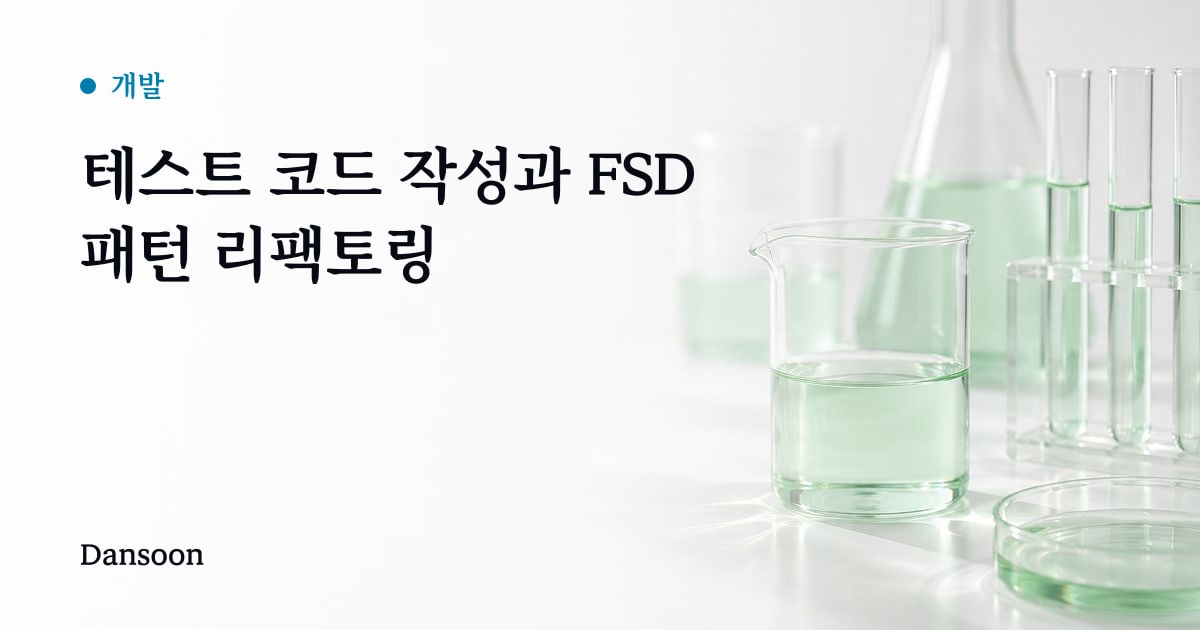
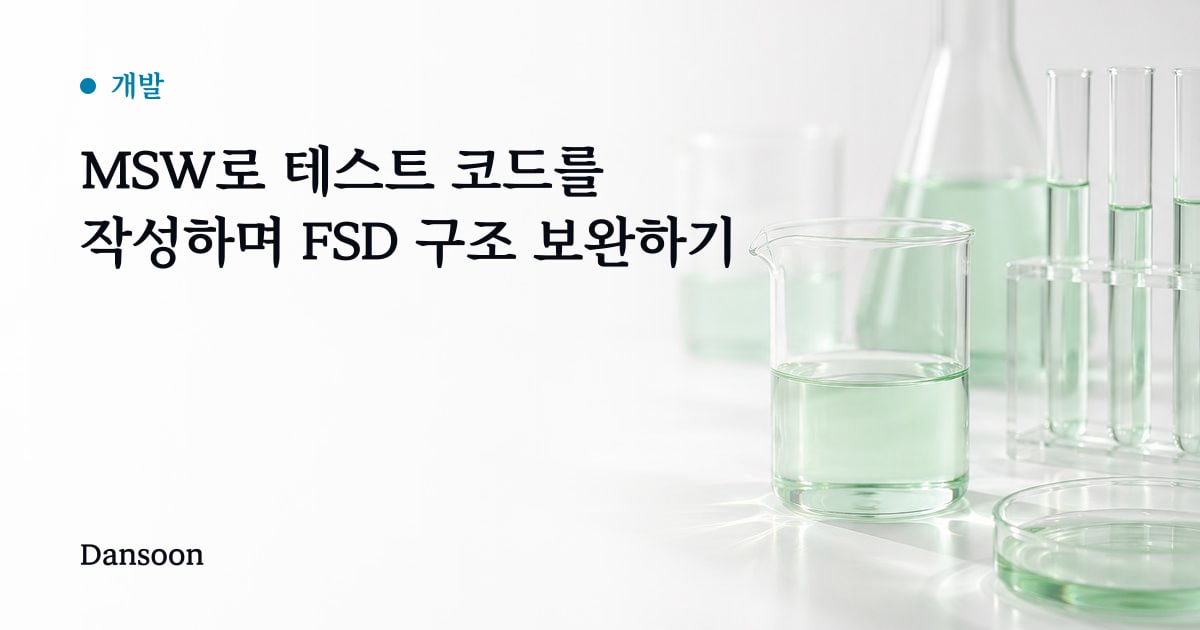
docs(dansoon): Orca 글 초안 추가와 기존 글 SEO 정비 (#260)
* feat(dansoon): dev 서버에서만 draft 글 표시 — 발행 전 로컬 미리보기용, 배포 빌드는 그대로 숨김

* docs(dansoon): 기존 글 제목에 검색어 반영·관련 글 내부 링크 추가 — slug는 유지

* docs(dansoon): Orca·Tailscale로 집 맥북 Claude Code를 휴대폰에서 쓰는 글 초안 추가 (draft)

* docs(dansoon): Orca·Tailscale 글 발행 — TODO 주석 제거, 위임의 조건 글에서 링크

* docs(dansoon): 썸네일을 make-thumbnails 규칙대로 재생성 — Orca 커버는 왼쪽을 비운 구도로, 제목 바꾼 글 10편은 새 제목 반영

* chore: dansoon 글쓰기 절차를 프로젝트 스킬로 정리 — 사실 확인·이미지·윤문·SEO·검증·발행 단계를 한곳에

Changed region(s): [[0.0617, 0.2111, 0.6167, 0.4524]]

diff --git a/apps/dansoon/src/lib/posts.ts b/apps/dansoon/src/lib/posts.ts
@@ -7,10 +7,10 @@ const RELATED_POSTS_LIMIT = 3;
 const SAME_CATEGORY_SCORE = 1;
 const SHARED_TAG_SCORE = 2;
 
-const isPublished = (post: Post) => !post.data.draft;
+const isPublished = (post: Post) => import.meta.env.DEV || !post.data.draft;
 const byNewest = (a: Post, b: Post) => b.data.publishedAt.valueOf() - a.data.publishedAt.valueOf();
 
-/** 상세·목록·RSS·검색·태그가 모두 이 집합만 쓴다 — draft는 어디에도 노출되지 않는다. */
+/** 상세·목록·RSS·검색·태그가 모두 이 집합만 쓴다 — draft는 dev 서버에서만 보인다(미리보기용). */
 export async function getPublishedPosts(): Promise<Post[]> {
   const posts = await getCollection('posts', isPublished);
   return posts.sort(byNewest);

diff --git a/apps/dansoon/contents/posts/orca-home-macbook-tailscale/index.md b/apps/dansoon/contents/posts/orca-home-macbook-tailscale/index.md
@@ -1,0 +1,190 @@
+---
+title: "밖에서 휴대폰으로 집 맥북의 Claude Code 쓰기: Orca와 Tailscale"
+description: "집 맥북에 Orca를 서버로 띄우고 Tailscale로 연결해 밖에서도 휴대폰으로 Claude Code·Codex 세션에 접속하도록 설정했어요. 접속 링크 만들기, 맥북 잠자기 막기, 재부팅 대비, 그리고 이슈 처리·사이트 점검·정보 수집·의존성 업데이트 자동화까지 정리해요."
+publishedAt: "2026-11-09T21:00:00+09:00"
+category: "dev"
+tags: ["ai", "side-project"]
+draft: false
+thumbnail: "./thumbnail.jpg"
+cover: "./cover.jpg"
+---
+
+Claude Code나 Codex 같은 CLI 에이전트는 띄워 둔 컴퓨터에서만 돈다. 노트북 뚜껑을 닫으면 에이전트도 멈추고 밖에서 진행 상황을 보려면 그 노트북을 다시 열어야 한다.
+
+그래서 집에 있는 맥북을 에이전트 전용 서버로 돌리기로 했다. 에이전트는 집 맥북에서 돌고 밖에서는 휴대폰으로 화면만 띄운다. 여기에 쓴 도구가 [Orca](https://www.onorca.dev/)와 [Tailscale](https://tailscale.com/)이다.
+
+## 1. 구성: 집 맥북이 서버, 휴대폰은 화면
+
+[Orca](https://github.com/stablyai/orca)는 여러 코딩 에이전트를 나란히 돌리는 데스크톱 앱이다. 에이전트마다 git worktree를 따로 잡아 주고 Claude Code·Codex·OpenCode 같은 CLI를 그대로 감싼다. 에이전트는 각자 쓰던 구독 계정으로 돈다.
+
+Orca에는 **Remote Orca Servers** 기능이 있다. 한 컴퓨터가 서버가 되어 프로젝트, worktree, 터미널, 에이전트 프로세스를 모두 갖고 있고 다른 기기는 그 서버에 접속하는 클라이언트가 된다. 공식 문서에 적힌 서버 쪽 특징은 이렇다.
+
+- 클라이언트 연결이 끊겨도 에이전트는 서버에서 계속 돈다.
+- 다시 연결하면 서버에 남아 있던 워크스페이스, 탭, 화면 배치로 돌아온다.
+- 휴대폰용 Orca Mobile도 같은 서버에 접속해 같은 세션을 이어 본다.
+
+남은 문제는 집 밖에서 집 맥북에 닿는 길이다. 공유기 포트를 열어 인터넷에 내놓는 방법도 있지만 Orca 문서는 **Orca 포트를 인터넷에 바로 열지 말라**고 적어 두었다. 대신 권하는 방법이 Tailscale이다. Tailscale은 내 기기들끼리만 보이는 사설망(tailnet)을 만들어 주고 각 기기에 `100.`으로 시작하는 주소를 붙여 준다. 포트를 열지 않아도 같은 tailnet에 로그인한 기기끼리는 이 주소로 서로 닿는다.
+
+정리하면 구성은 이렇다.
+
+| 기기 | 역할 | 설치한 것 |
+| --- | --- | --- |
+| 집 맥북 | 서버. 저장소, CLI 에이전트, 인증 정보가 여기 있다 | Orca, Tailscale, Claude Code·Codex |
+| 휴대폰 | 클라이언트. 화면만 띄운다 | Orca Mobile, Tailscale |
+
+![집 맥북에서 에이전트가 일하고, 닫힌 통로로 연결된 휴대폰에는 같은 화면이 뜬다](./structure.jpg)
+
+### 다른 방법과 비교
+
+휴대폰에서 집 컴퓨터의 Claude Code를 쓰는 방법은 Orca 말고도 있다.
+
+| 방법 | 휴대폰에서 보이는 것 | 다루는 에이전트 |
+| --- | --- | --- |
+| Tailscale + SSH + tmux + 모바일 SSH 앱(Termius 등) | 터미널 | 터미널에서 띄운 것 전부 |
+| Claude Code 공식 원격 기능 | Claude 앱 화면 | Claude Code |
+| Orca + Tailscale | Orca Mobile 화면 | Claude Code·Codex·OpenCode 등, worktree별로 |
+
+SSH와 tmux 조합은 따로 앱이 필요 없고 자료도 가장 많다. 다만 휴대폰 화면에서 터미널을 다뤄야 하고, 에이전트를 여러 개 돌리면 tmux 창을 오가며 찾아야 한다. Orca는 에이전트마다 worktree와 탭이 나뉘어 있어서 휴대폰에서도 어떤 에이전트가 무엇을 하는지 한눈에 보인다. Claude Code와 Codex를 같이 쓰기 때문에 Orca를 골랐다.
+
+## 2. Tailscale로 두 기기를 한 망에 묶기
+
+집 맥북과 휴대폰에 Tailscale을 깔고 **같은 계정으로 로그인**했다. 두 기기가 같은 tailnet에 들어가는 게 전부다.
+
+로그인하고 나면 Tailscale 메뉴나 관리 콘솔에서 집 맥북의 주소를 확인할 수 있다. `100.x.y.z` 꼴이다. 이 주소는 다음 단계에서 Orca가 알아서 찾아 준다.
+
+## 3. 집 맥북에서 접속 링크 만들기
+
+집 맥북의 Orca에서 서버를 켜는 과정은 버튼 몇 번이면 끝난다.
+
+1. Orca 데스크톱 앱에서 **Settings → Remote Orca Servers**를 연다.
+2. **Advertise this app as a server** 아래의 **New Link**를 누른다.
+3. **Connection address**에서 Tailscale 주소(`100.`으로 시작)를 고른다.
+4. **Generate Access Link**를 누른다.
+
+Tailscale 주소가 목록에 안 보이면 Tailscale이 연결돼 있는지 확인하고 **Connection address** 옆 새로고침 버튼을 누르면 된다. `127.0.0.1`은 서버 자신만 쓸 수 있는 주소라서 다른 기기용으로 고르면 안 된다.
+
+이 링크는 비밀번호처럼 다뤄야 한다. 링크만 있으면 이 Orca 런타임에 접근할 수 있다. 메신저 대화방에 붙여 넣지 않고 휴대폰으로 바로 옮겼다.
+
+## 4. 휴대폰에서 접속하기
+
+휴대폰에서 Tailscale을 켜 두고 Orca Mobile에서 **Pair**를 눌러 집 맥북이 만든 QR 코드를 찍거나 링크를 붙여 넣었다.
+
+연결되고 나면 휴대폰은 화면만 보여 준다. 코드, 터미널, 에이전트는 전부 집 맥북에 그대로 있다. 에이전트가 끝났는지, 승인을 기다리는지 밖에서 확인하고 다음 지시를 보낸다. 휴대폰 화면을 꺼도 집 맥북의 에이전트는 하던 일을 계속한다.
+
+## 5. 맥북이 잠들지 않게
+
+Orca 문서의 전제 조건 중 하나가 **서버 컴퓨터가 깨어 있고, tailnet에 연결돼 있고, Orca가 실행 중일 것**이다. 맥북은 기본 설정 그대로면 화면이 꺼질 때 잠든다. 잠든 맥북에는 원격으로 접속할 수 없다.
+
+그래서 집 맥북은 이렇게 맞췄다.
+
+- 전원 어댑터를 꽂아 둔다.
+- **시스템 설정 → 배터리 → 옵션**에서 전원 어댑터에 연결됐을 때 디스플레이가 꺼져도 자동으로 잠자지 않도록 켠다.
+- 뚜껑은 닫지 않고 열어 둔다. 외부 모니터 없이 뚜껑을 닫으면 맥북은 잠든다.
+
+설정이 먹었는지는 터미널에서 확인한다.
+
+```bash
+pmset -g
+```
+
+## 6. 재부팅 뒤에도 다시 서버가 되도록
+
+정전이나 업데이트로 맥북이 재부팅되면 Orca도 Tailscale도 꺼진다. 둘 다 **시스템 설정 → 일반 → 로그인 항목**에 넣어 로그인하면 자동으로 뜨게 했다.
+
+여기서 걸리는 게 FileVault다. FileVault가 켜진 맥은 재부팅 뒤 비밀번호를 입력하기 전까지 사용자 세션이 열리지 않는다. Orca와 Tailscale은 사용자 세션에서 도는 앱이라서 집에 아무도 없을 때 재부팅되면 다음에 비밀번호를 칠 때까지 밖에서 접속할 수 없다. 이 부분은 풀지 않고 감수하기로 했다. 디스크 암호화를 끄는 것보다는 가끔 원격 접속이 끊기는 편이 낫다.
+
+## 7. 링크 관리
+
+Orca는 클라이언트마다 따로 토큰을 만들고 서버의 **Shared Server Access**에 목록으로 보여 준다.
+
+- 휴지통 버튼으로 기기 하나의 접근만 끊을 수 있다. 연결된 클라이언트는 바로 끊긴다.
+- 새 링크를 만들면 아직 쓰지 않은 이전 링크는 무효가 된다. 이미 연결된 기기는 그대로다.
+- 링크를 엉뚱한 곳에 보냈다면 그 접근을 지우고 새 링크를 만들면 된다.
+
+휴대폰을 바꾸거나 잃어버렸을 때 여기서 그 기기의 접근만 지우면 된다.
+
+## 8. 이 구성으로 하는 일
+
+세팅 자체보다 이걸로 무엇을 하느냐가 중요하다. 집 맥북을 서버로 둔 이유는 세 가지다.
+
+### 밖에서 버그 고치기
+
+배포해 둔 사이드 프로젝트에서 버그를 발견하는 건 대개 노트북이 없을 때다. 지금은 휴대폰으로 집 맥북의 Orca에 접속해 새 worktree를 열고 에이전트에게 수정을 맡긴다. 테스트가 통과하는지 보고 PR까지 올리게 한 뒤, 리뷰와 머지는 집에 와서 한다.
+
+### 자기 전에 맡기고 아침에 고르기
+
+Orca는 에이전트마다 worktree를 따로 잡아 준다. 그래서 같은 문제를 서로 다른 방식으로 동시에 풀게 할 수 있다. 자기 전에 접근법이 다른 지시 세 개를 걸어 두고 아침에 결과를 비교해 하나만 남긴다. 나머지 worktree는 지운다.
+
+### 오래 걸리는 작업 걸어 두고 나가기
+
+전체 빌드, E2E 테스트, 여러 파일에 걸친 리팩터링처럼 오래 걸리는 일은 집 맥북에 걸어 두고 나간다. 끝났는지, 어디서 막혔는지는 휴대폰으로 확인한다.
+
+## 9. 집 맥북이 알아서 하는 일
+
+8장은 내가 휴대폰으로 지시하는 일이다. 집 맥북이 늘 켜져 있으니 지시하지 않아도 정해진 시간에 도는 일도 맡길 수 있다.
+
+예약 실행은 macOS의 launchd로 한다. 정해진 시각에 스크립트를 띄우고 스크립트 안에서 `claude -p`로 에이전트를 비대화형으로 돌린다. Orca는 그 결과를 휴대폰에서 확인하고 이어서 손볼 때 쓴다.
+
+새벽 5시에 사이트 점검 스크립트를 띄우는 설정은 `~/Library/LaunchAgents/dev.danwoo.site-check.plist`에 이렇게 둔다.
+
+```xml
+<?xml version="1.0" encoding="UTF-8"?>
+<!DOCTYPE plist PUBLIC "-//Apple//DTD PLIST 1.0//EN" "http://www.apple.com/DTDs/PropertyList-1.0.dtd">
+<plist version="1.0">
+<dict>
+  <key>Label</key>
+  <string>dev.danwoo.site-check</string>
+  <key>ProgramArguments</key>
+  <array>
+    <string>/bin/zsh</string>
+    <string>-lc</string>
+    <string>~/automation/site-check.sh</string>
+  </array>
+  <key>StartCalendarInterval</key>
+  <dict>
+    <key>Hour</key>
+    <integer>5</integer>
+    <key>Minute</key>
+    <integer>0</integer>
+  </dict>
+</dict>
+</plist>
+```
+
+```bash
+launchctl load ~/Library/LaunchAgents/dev.danwoo.site-check.plist
+```
+
+자동화에는 원칙을 하나 정했다. **에이전트는 PR까지만 올리고 머지는 내가 한다.** 사람 없이 도는 에이전트에게 머지 권한을 주지 않고 토큰 권한도 해당 저장소로 좁혔다.
+
+### 이슈를 쓰면 아침에 PR
+
+밖에서 떠오른 일은 휴대폰으로 GitHub 이슈에 적고 라벨을 붙인다. 집 맥북이 밤에 그 라벨이 붙은 이슈를 가져와 이슈마다 worktree를 만들고 에이전트에게 맡긴다. 아침에는 이슈마다 PR이 올라와 있고 나는 리뷰만 한다.
+
+### 매일 새벽 사이트 점검
+
+이 블로그와 프로젝트 허브를 매일 새벽 점검한다. 빌드가 되는지, 깨진 링크가 없는지, Lighthouse 점수가 떨어지지 않았는지 본다. 이상이 있으면 에이전트가 원인을 찾아 수정 PR 초안을 만든다.
+
+예전에 `trailingSlash` 설정 때문에 슬래시 없는 내부 링크가 404가 나서 링크 63개를 한꺼번에 고친 적이 있다. 이런 문제를 누가 들어와 보기 전에 잡으려는 용도다.
+
+### 나만 보는 정보 수집
+
+관심 있는 라이브러리의 릴리스 노트, GitHub 트렌딩, 기술 뉴스를 매일 모아 요약한다. 요약은 저장소 밖의 노트에 쌓고 공개하지 않는다. 블로그 글감이 필요할 때 여기서 꺼내 쓴다. 예전에 이 블로그에 AI 뉴스를 자동으로 올리다가 [껐는데](/posts/too-easy-to-build/), 모으는 것까지만 자동으로 두고 무엇을 쓸지는 직접 고른다.
+
+### 의존성 업데이트와 마이그레이션
+
+매주 `pnpm outdated`로 메이저 업데이트를 확인한다. 올릴 게 있으면 worktree에서 올려 보고 깨지는 코드는 에이전트가 고친다. 테스트까지 통과한 것만 PR로 올라온다. 버전만 올려 주는 업데이트 봇과 달리 깨진 코드를 고치는 데까지 간다.
+
+자동화도 Claude 구독 한도를 같이 쓴다. 밤새 많이 돌리면 다음 날 쓸 몫이 줄어서 작업마다 도는 횟수와 시각을 나눠 두었다.
+
+## 정리
+
+- 집 맥북: Orca를 서버로 켜고 Tailscale 주소로 접속 링크를 만든다.
+- 휴대폰: 같은 tailnet에 로그인하고 Orca Mobile로 페어링한다.
+- 맥북은 전원 연결, 잠자기 해제, 로그인 항목 등록까지 해 둔다.
+- 포트포워딩은 하지 않는다. 링크는 비밀번호처럼 다룬다.
+- 휴대폰으로는 밖에서 버그 수정, 밤사이 병렬 실험, 오래 걸리는 작업을 맡긴다.
+- launchd 예약으로는 이슈 처리, 사이트 점검, 정보 수집, 의존성 업데이트를 돌린다. 머지는 항상 직접 한다.
+
+에이전트에게 일을 얼마나 맡길지는 [AI에게 코드를 맡기기 위한 위임의 조건](/posts/delegating-code-to-ai/)에 정리해 두었다.
+

diff --git a/.claude/skills/dansoon-post/SKILL.md b/.claude/skills/dansoon-post/SKILL.md
@@ -1,0 +1,114 @@
+---
+name: dansoon-post
+description: dansoon 블로그 글을 쓰거나 고치거나 발행할 때 반드시 따르는 전체 절차 — 사실 확인, 문체, frontmatter, 이미지(cover·썸네일 스크립트), im-not-ai 윤문, open-seo 점검, 내부 링크, 검증, 발행. "블로그 글 써줘", "글 고쳐줘", "발행해줘", "기존 글 정비" 같은 요청이면 먼저 이 스킬을 연다.
+---
+
+# dansoon 블로그 글 절차
+
+글 하나 = 아래 단계 전부. 하나라도 빼면 끝난 게 아니다. 결과 보고에는 각 단계를 했는지 적는다.
+
+## 1. 사실 확인
+
+- 도구·서비스·설정 절차는 **공식 문서를 먼저 읽고** 메뉴 이름·명령을 그대로 옮긴다. 기억으로 쓰지 않는다.
+- 사용자의 경험·감정·결과를 지어내지 않는다. 모르는 부분은 사용자에게 묻거나 작업 중에만 `<!-- TODO: ... -->`로 표시한다.
+- 확인하지 못한 사실은 단정하지 않는다.
+
+## 2. 문체
+
+- 본문은 `-다` 체 평서문(기존 글과 통일). 합니다체로 쓴 옛 글에 문장을 넣을 땐 그 글의 말투를 따른다.
+- `description`은 해요체(`~정리해요.`), 200자 이내.
+- "이 글은 ~한 이야기다" 같은 메타 문장 금지.
+- 소제목은 `## 1. ...` 번호 형식, 끝은 `## 정리` 또는 마무리 문단.
+- 개발자끼리 쓰는 말투("붙기" 등)보다 일반적인 말(접속·연결)을 쓴다.
+- "포트폴리오" 단어 금지(대체어: 프로젝트 허브, 개인 프로젝트 모음).
+
+## 3. frontmatter
+
+`apps/dansoon/contents/posts/<영문-slug>/index.md`. 스키마는 `src/content.config.ts`가 검증한다.
+
+```yaml
+---
+title: "제목"
+description: "요약(해요체, 200자 이내)"
+publishedAt: "2026-11-09T21:00:00+09:00"
+category: "dev"            # dev | retro | reading
+tags: ["ai", "side-project"] # src/lib/taxonomy.ts의 TAG_IDS만
+draft: true                # 초안은 true, 발행 때 false
+thumbnail: "./thumbnail.jpg"
+cover: "./cover.jpg"
+---
+```
+
+- 새 태그·카테고리는 `src/lib/taxonomy.ts`에 먼저 추가한다.
+- **slug(폴더 이름)는 URL이라 절대 바꾸지 않는다.**
+
+## 4. 이미지 (글과 한 세트)
+
+이미지는 직접 그리지 않고 `codexgen` 스킬로 만든다(`~/.claude/skills/codexgen/codexgen.sh <out.png> "<영문 프롬프트>"`). 여러 장은 순차 호출.
+
+**cover.jpg** — 글 상단 + 썸네일 배경
+
+- 3:2, **제목·글자 없음**, **모티프는 오른쪽, 왼쪽 절반 이상은 비운다**(썸네일 스크립트가 왼쪽에 제목을 얹는다).
+- 글마다 은유와 화풍을 바꾼다. 큰 한글 제목 + 파란 강조 + 연회색 배경 + 플랫 UI 아이콘(브라우저 창·톱니·화살표) 템플릿은 피한다.
+- 변환: `sips -s format jpeg -s formatOptions 82 -z 1024 1536 cover.png --out cover.jpg` 후 png 삭제.
+
+**thumbnail.jpg** — 목록·링크 미리보기(1200×630)
+
+- **직접 자르지 않는다.** 앱 폴더에서 `node scripts/make-thumbnails.ts <slug>`로 만든다.
+- **제목이나 카테고리를 바꾸면 그 글의 썸네일을 반드시 다시 만든다.** 여러 글 제목을 고쳤으면 slug를 모두 넘긴다.
+
+**본문 이미지** — 최소 1장. 구성도·은유 그림 등 글 내용을 보여 주는 것. 3:2 jpg, `![설명](./이름.jpg)`.
+
+만든 이미지는 Read로 열어 눈으로 확인한다(글자가 섞였는지, 왼쪽이 비었는지, 썸네일 제목이 모티프와 겹치는지).
+
+## 5. 링크
+
+- 내부 링크는 끝에 `/`: `](/posts/slug/)`, 앵커는 `/posts/slug/#h`. (`trailingSlash: 'always'`라 슬래시가 없으면 404)
+- 관련 글로 가는 내부 링크를 넣는다. **draft 글로는 링크하지 않는다**(배포 사이트에서 404). 발행할 때 연결한다.
+- 외부 링크는 공식 문서를 우선한다.
+
+## 6. im-not-ai 윤문 (초안 직후 바로, 미루지 않음)
+
+`humanize-korean:humanize-korean` 스킬을 연다. TODO·캡처가 남아 있어도 바로 돌린다.
+
+- `_workspace`는 **scratchpad에 둔다**(저장소에 만들지 않음).
+- 입력은 frontmatter를 뺀 본문만. 코드블록·표·링크·굵은 UI 라벨·HTML 주석은 보존 대상으로 지시한다.
+- 스킬 절차대로 shim → monolith → `restore_modality.py`·`strip_injected_commas.py` → `verify_gates.py`까지 돌리고, 게이트 통과한 본문을 frontmatter와 합친다(frontmatter 뒤 빈 줄 확인).
+- 헤딩을 일부러 바꾸면 P3 heading_lost가 뜨는데 무시해도 된다.
+
+## 7. open-seo 점검 (윤문과 함께 바로)
+
+`content-brief` 스킬을 연다. Ryze MCP는 연결하지 않았으므로 SERP는 WebSearch(한국어·영어 각 1회)로 대신한다. 매번 네 가지를 본다.
+
+1. 제목·description에 사람들이 실제로 검색하는 말(제품명·도구명·문제 상황)이 들어갔는가.
+2. 상위 글과 비교해 빠진 기본 내용과 이 글만의 차별점. 같은 문제를 푸는 다른 방법이 흔하면 `다른 방법과 비교` 표를 넣는다.
+3. 관련 글 내부 링크(5단계 규칙).
+4. slug는 그대로.
+
+## 8. 검증
+
+명령은 **저장소 루트에서** 실행한다. `contents/posts/` 안에서 명령을 돌리면 OMC 훅이 `.omc/` 폴더를 만들어 Astro 설정 로드가 깨진다(생겼으면 지운다).
+
+```bash
+pnpm --filter dansoon exec astro check   # 0 errors
+```
+
+- 내부 링크 대상 확인: 모든 `](/posts/<slug>/` 의 slug 폴더가 존재하는지.
+- dev 서버(`localhost:4321`)는 draft도 보여 준다. 글 페이지가 200인지, 이미지가 뜨는지 확인한다. 화면 변경은 캡처로 사용자에게 확인받는다.
+
+## 9. 발행
+
+- `draft: false`, `publishedAt`을 발행 시각(KST)으로.
+- **`<!-- TODO -->` 주석은 모두 지운다.** 화면엔 안 보여도 페이지 소스에 노출된다. 남은 할 일은 PR 설명의 체크리스트로 옮긴다.
+- 관련 글에서 새 글로 링크를 건다.
+- 커밋은 `/commit` 규칙: main에서 브랜치(`docs/...`)를 파고 `docs(dansoon): ...` 원자적 커밋. 사이트에 반영하려면 PR을 열고 CI(`verify`) 통과 후 머지한다(머지 = 배포).
+
+## 완료 보고 체크리스트
+
+- [ ] 공식 문서 확인, 지어낸 경험 없음
+- [ ] cover(왼쪽 비움, 글자 없음) + 본문 이미지 + 스크립트 썸네일, 눈으로 확인
+- [ ] im-not-ai 게이트 통과(변경률 수치)
+- [ ] open-seo 4항목 반영
+- [ ] 내부 링크(슬래시, draft 링크 없음)
+- [ ] astro check 0 errors, dev 페이지 확인
+- [ ] 발행 시 TODO 주석 제거, 제목 바꾼 글 썸네일 재생성

diff --git a/apps/dansoon/contents/posts/design-token-conventions/index.md b/apps/dansoon/contents/posts/design-token-conventions/index.md
@@ -1,5 +1,5 @@
 ---
-title: "디자인 규칙을 문서 대신 도구가 지키게 만들기"
+title: "디자인 토큰 규칙을 문서 대신 도구가 지키게 만들기: Tailwind v4와 lint"
 description: "앱 여러 개가 공유하는 디자인 토큰과 Tailwind v4를 점검했더니, 규칙이 문서와 주석에만 있는 곳에서 화면이 새고 있었어요. max-w-md가 16px로 풀리는 이름 충돌, 서체에 없는 굵기, 대비가 모자란 상태색을 고치고 토큰 생성 단계와 lint가 규칙을 지키게 만든 과정을 정리해요."
 publishedAt: "2026-11-08T15:30:00+09:00"
 category: "dev"
@@ -179,3 +179,5 @@ export function validateDesignTokens(text) {
 - **화면 비교**: 학습 앱은 로컬에서 DB 연결 없이 빌드할 수 없었고, 3D 앱은 장면이 계속 움직여 스크린샷 비교를 할 수 없었다. 둘은 컴파일된 CSS로만 확인했다. 화면 비교 자체도 아직 손으로 돌린다.
 
 토큰을 처음 만들 때 목표는 튀지 않는 화면이었다. 이번에 규칙을 세 곳에 나눠 맡겼다. 이름 충돌은 토큰 생성 단계가, 색과 굵기는 lint가 막는다. 그래도 규칙을 다 지킨 코드가 화면을 바꾼 일이 두 번 있었고, 그건 화면을 직접 비교해서야 보였다. 기계가 확인할 수 있는 규칙은 기계에 맡기고, 남는 부분은 화면 비교로 메우는 게 지금의 방식이다.
+
+앱 구조 규칙을 lint로 막은 과정은 [FSD 규칙을 문서 대신 ESLint로 강제하기](/posts/fsd-eslint-boundaries/)에 정리했다.

diff --git a/apps/dansoon/contents/posts/fsd-state-management-refactoring/index.md b/apps/dansoon/contents/posts/fsd-state-management-refactoring/index.md
@@ -1,5 +1,5 @@
 ---
-title: "FSD 패턴과 상태 관리 리팩토링"
+title: "FSD 패턴으로 상태 관리 리팩토링하기: react-query와 zustand"
 description: "상태와 API, UI가 얽힌 코드를 FSD 구조로 나누고 react-query와 zustand로 상태 관리를 개선한 리팩토링 과정을 돌아봐요."
 publishedAt: "2024-12-11T13:25:30+09:00"
 updatedAt: "2025-08-03T09:35:55+09:00"
@@ -159,3 +159,5 @@ export const usePostStore = create<PostState>((set) => ({
 ---
 
 이번 리팩토링 과제를 통해 코드의 모듈화와 상태 관리의 중요성을 다시 깨달았다. 앞으로 더 복잡한 프로젝트에서도 이 경험을 바탕으로 유지보수성과 확장성을 높일 수 있는 구조를 설계할 수 있다는 자신감을 얻었다.
+
+이 구조에 테스트를 붙이며 보완한 과정은 [MSW로 테스트 코드를 작성하며 FSD 구조 보완하기](/posts/test-code-fsd-refactoring/)에 이어서 정리했다.

diff --git a/apps/dansoon/contents/posts/delegating-code-to-ai/index.md b/apps/dansoon/contents/posts/delegating-code-to-ai/index.md
@@ -640,6 +640,8 @@ AI에게 더 많은 코드를 맡기기 위해 만든 도구지만
 
 AI에게 구현을 맡긴 실제 프로젝트 사례는 [사주 서비스 제작기](/posts/saju-service/)에 담았다.
 
+규칙을 실제로 lint에 옮긴 예는 [FSD 규칙을 문서 대신 ESLint로 강제하기](/posts/fsd-eslint-boundaries/)와 [디자인 토큰 규칙을 문서 대신 도구가 지키게 만들기](/posts/design-token-conventions/)에, AI로 빨리 만들 수 있게 된 뒤의 고민은 [AI 바이브 코딩으로 빨리 만들 수 있게 되자](/posts/too-easy-to-build/)에 있다. 에이전트를 집 맥북에서 계속 돌려 두고 밖에서 휴대폰으로 쓰는 구성은 [밖에서 휴대폰으로 집 맥북의 Claude Code 쓰기](/posts/orca-home-macbook-tailscale/)에 정리했다.
+
 ## 참고자료
 
 -   **Thoughtworks — 사람이 읽기 좋은 코드는 여전히 필요할까?**  

diff --git a/apps/dansoon/contents/posts/seo-structural-evolution/index.md b/apps/dansoon/contents/posts/seo-structural-evolution/index.md
@@ -1,5 +1,5 @@
 ---
-title: "SEO의 구조적 진화"
+title: "SEO의 구조적 진화: SPA·SSR, 구글·네이버 크롤러와 Next.js의 한계"
 description: "HTML부터 SPA, SSR까지 SEO의 변천과 구글·네이버 크롤러 차이를 짚고, Next.js만으로 해결되지 않는 부분과 실무 설계를 정리해요."
 publishedAt: "2025-09-17T10:49:05+09:00"
 updatedAt: "2025-10-27T17:23:04+09:00"
@@ -453,6 +453,8 @@ SEO는 단순한 마케팅 기법에서 제품 설계의 핵심 요소로 진화
 Next.js는 이런 구조적 SEO의 출발점을 제공할 뿐, 진짜 최적화는 개발자와 기획자의 전략적 사고에서 나온다고 생각합니다.
 
 ---
+
+이 기준으로 개인 블로그를 직접 점검한 결과는 [블로그 최적화 점검](/posts/blog-optimization-check/)에 정리했습니다.
 
 ## 참고 자료
 

diff --git a/apps/dansoon/contents/posts/tistory-to-astro/index.md b/apps/dansoon/contents/posts/tistory-to-astro/index.md
@@ -126,3 +126,5 @@ const LANGUAGE_HINTS = [
 옮기는 작업 자체보다 옮긴 뒤에도 그대로 동작하게 만드는 데 시간이 더 들었다. 코드 블록의 언어, 사진의 메타데이터, 슬래시 하나 차이의 주소처럼 눈에 잘 띄지 않는 부분이 대부분이었다.
 
 이제 글을 쓰는 곳과 보여 주는 곳을 모두 내가 다룰 수 있게 됐다. 화면이 마음에 들지 않으면 직접 고치면 된다. 앞으로의 글은 이곳에 쓸 생각이다. 대표 이미지가 없는 글의 링크 미리보기 이미지를 만든 과정은 [링크 미리보기 이미지를 빌드할 때 만들기](/posts/build-time-og-images/)에 정리했다.
+
+옮긴 뒤 블로그가 실제로 최적화돼 있는지는 [블로그 최적화 점검](/posts/blog-optimization-check/)에서 다시 확인했다.

diff --git a/apps/dansoon/contents/posts/blog-optimization-check/index.md b/apps/dansoon/contents/posts/blog-optimization-check/index.md
@@ -151,3 +151,5 @@ sitemap({
 - **옛 주소 리다이렉트:** 예전에 쓰던 `/tech/*` 주소는 전부 홈으로 보내고 있다. Google은 이런 리다이렉트를 soft 404(실제로는 없는 페이지)로 볼 수 있다. 옛 주소로 들어오는 방문이 아직 있다면 글별로 연결해야 한다.
 
 점검에서 가장 오래 걸린 건 고치는 일이 아니라 경고를 하나씩 열어 보는 일이었다. 수백 건이던 경고가 고칠 일 세 개로 줄어든 건 원인을 확인한 뒤였다.
+
+썸네일 없는 글의 미리보기 이미지는 [OG 이미지를 빌드할 때 만들기](/posts/build-time-og-images/)에서 만든 방식을 그대로 쓴다.

diff --git a/apps/dansoon/contents/posts/import-path-alias-barrel-fsd/index.md b/apps/dansoon/contents/posts/import-path-alias-barrel-fsd/index.md
@@ -334,3 +334,5 @@ export { default as LargeComponent } from './LargeComponent';
 프로젝트 초기 단계에서 이러한 패턴을 도입하는 데 드는 약간의 설정 비용은 장기적인 개발 생산성 향상과 기술 부채 감소로 충분히 보상받을 수 있다.
 
 새로운 프로젝트를 시작할 때마다 이러한 패턴을 기본 설정으로 도입한다면, 보다 견고하고 유지보수가 용이한 코드베이스를 구축할 수 있을 것이다.
+
+배럴로만 import하는 규칙을 lint로 강제하는 방법은 [FSD 규칙을 문서 대신 ESLint로 강제하기](/posts/fsd-eslint-boundaries/)에 정리했다.
